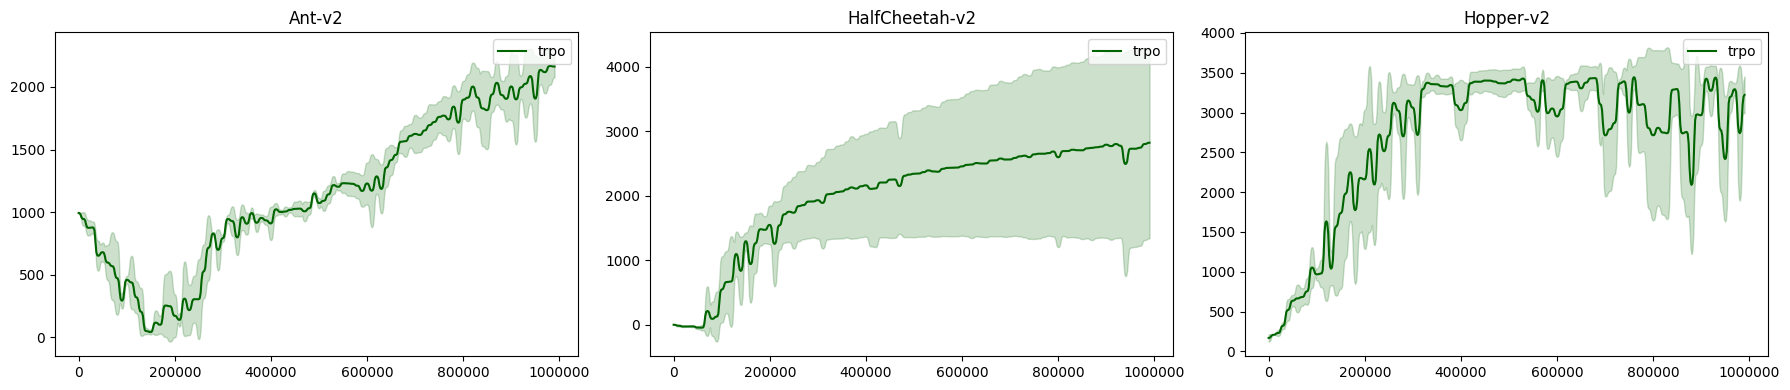
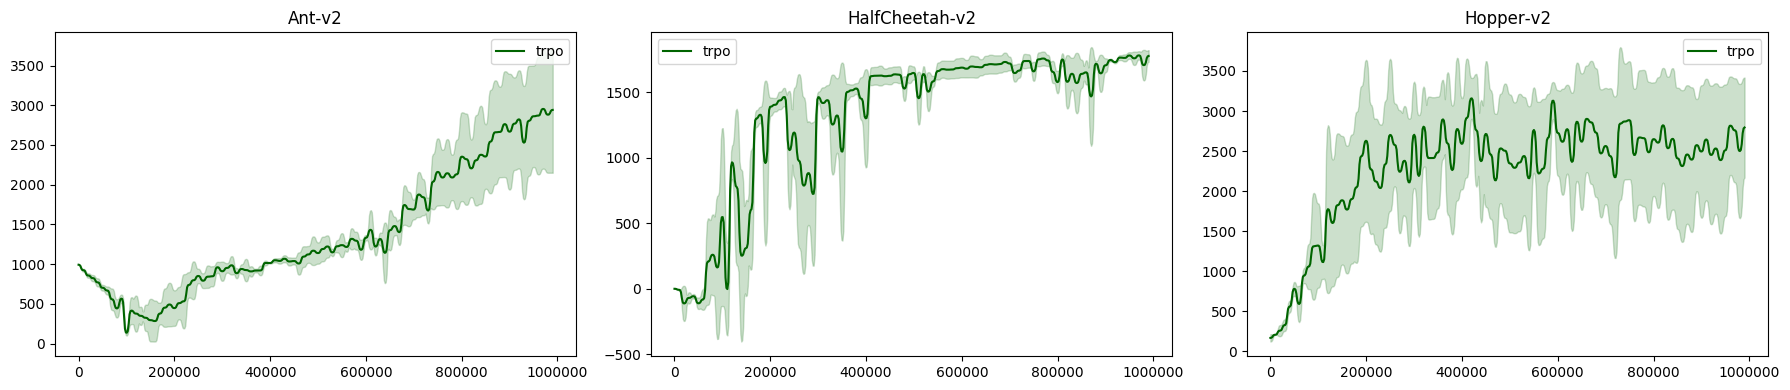
add peb for trpo and sac

diff --git a/utils/flags.py b/utils/flags.py
@@ -52,6 +52,7 @@ class FLAGS(BaseFLAGS):
         save_freq = int(1e6)
         eval_freq = int(1e4)
         normalization = True
+        peb = False
 
         class algo(BaseFLAGS):
             cg_damping = 0.1
@@ -81,6 +82,7 @@ class FLAGS(BaseFLAGS):
         eval_freq = int(1e4)
         save_freq = int(1e6)
         log_freq = int(2e3)
+        peb = True
 
         class algo(BaseFLAGS):
             gamma = 0.99
@@ -178,20 +180,23 @@ class FLAGS(BaseFLAGS):
         assert cls.TRPO.rollout_samples % cls.env.num_env == 0
 
         if os.path.exists('.git'):
-            for t in range(60):
+            for t in range(10):
                 try:
-                    if sys.platform == 'Linux':
+                    if sys.platform == 'linux':
                         cls.commit = check_output(['git', 'rev-parse', 'HEAD']).decode('utf-8').strip()
                         check_output(['git', 'add', '.'])
                         check_output(['git', 'checkout-index', '-a', '-f', '--prefix={}/src/'.format(cls.log_dir)])
+                        open(os.path.join(log_dir, 'diff.patch'), 'w').write(
+                            check_output(['git', '--no-pager', 'diff', 'HEAD']).decode('utf-8'))
                     else:
                         check_output(['git', 'checkout-index', '-a', '--prefix={}/src/'.format(cls.log_dir)])
                     break
-                except CalledProcessError:
-                    pass
+                except Exception as e:
+                    print(e)
+                    print('Try again...')
                 time.sleep(1)
             else:
-                raise RuntimeError('Failed after 60 trials.')
+                raise RuntimeError('Failed after 10 trials.')
 
         yaml.dump(cls.as_dict(), open(os.path.join(log_dir, 'config.yml'), 'w'), default_flow_style=False)
         # logger.add_sink(FileSink(os.path.join(log_dir, 'log.json')))

diff --git a/sac/main.py b/sac/main.py
@@ -32,7 +32,7 @@ def main():
     tf.get_default_session().run(tf.global_variables_initializer())
     sac.update_critic_target(tau=0.0)
 
-    dtype = gen_dtype(env, 'state action next_state reward done timeout')
+    dtype = gen_dtype(env, 'state action next_state reward done')
     buffer = Dataset(dtype=dtype, max_size=FLAGS.SAC.buffer_size)
     saver = nn.ModuleDict({'actor': actor, 'critic': critic})
     print(saver)
@@ -49,12 +49,16 @@ def main():
             actions = np.array([env.action_space.sample() for _ in range(env.n_envs)])
         else:
             actions = actor.get_actions(states)
-        next_states, rewards, dones, _ = env.step(actions)
+        next_states, rewards, dones, infos = env.step(actions)
         n_returns += rewards
         n_steps += 1
         timeouts = n_steps == env.max_episode_steps
+        terminals = np.copy(dones)
+        for e, info in enumerate(infos):
+            if FLAGS.SAC.peb and info.get('TimeLimit.truncated', False):
+                terminals[e] = False
 
-        transitions = [states, actions, next_states.copy(), rewards, dones, timeouts.copy()]
+        transitions = [states, actions, next_states.copy(), rewards, terminals]
         buffer.extend(np.rec.fromarrays(transitions, dtype=dtype))
 
         indices = np.where(dones | timeouts)[0]
@@ -66,13 +70,6 @@ def main():
             n_returns[indices] = 0
             n_steps[indices] = 0
         states = next_states.copy()
-
-        if t == 2000:
-            assert env.n_envs == 1
-            samples = buffer.sample(size=None, indices=np.arange(2000))
-            masks = 1 - (samples.done | samples.timeout)[..., np.newaxis]
-            masks = masks[:-1]
-            assert np.allclose(samples.state[1:] * masks, samples.next_state[:-1] * masks)
 
         if t >= FLAGS.SAC.init_random_steps:
             samples = buffer.sample(FLAGS.SAC.batch_size)

diff --git a/trpo/utils/runner.py b/trpo/utils/runner.py
@@ -77,15 +77,14 @@ class Runner(object):
         use_next_vf = ~samples.done
         use_next_adv = ~(samples.done | samples.timeout)
 
-        next_values = vfn.get_values(samples[-1].next_state)
+        next_values = vfn.get_values(samples.reshape(-1).next_state).reshape(n_steps, self.n_envs)
         values = vfn.get_values(samples.reshape(-1).state).reshape(n_steps, self.n_envs)
         advantages = np.zeros((n_steps, self.n_envs), dtype=np.float32)
         last_gae_lambda = 0
 
         for t in reversed(range(n_steps)):
-            delta = samples[t].reward + self.gamma * next_values * use_next_vf[t] - values[t]
+            delta = samples[t].reward + self.gamma * next_values[t] * use_next_vf[t] - values[t]
             advantages[t] = last_gae_lambda = delta + self.gamma * self.lambda_ * last_gae_lambda * use_next_adv[t]
-            next_values = values[t]
         return advantages.reshape(-1), values.reshape(-1)
 
 

diff --git a/trpo/main.py b/trpo/main.py
@@ -31,7 +31,8 @@ def main():
     tf.get_default_session().run(tf.global_variables_initializer())
 
     saver = nn.ModuleDict({'policy': policy, 'vfn': vfn, 'normalizers': normalizers})
-    runner = Runner(env, max_steps=env.max_episode_steps, gamma=FLAGS.TRPO.gamma, lambda_=FLAGS.TRPO.lambda_)
+    runner = Runner(env, max_steps=env.max_episode_steps, gamma=FLAGS.TRPO.gamma, lambda_=FLAGS.TRPO.lambda_,
+                    partial_episode_bootstrapping=FLAGS.TRPO.peb)
     print(saver)
 
     max_ent_coef = FLAGS.TRPO.algo.ent_coef

diff --git a/sac/algos/sac.py b/sac/algos/sac.py
@@ -103,7 +103,7 @@ class SAC(nn.Module):
     def train(self, data):
         _, critic_loss, q_value, critic_norm = self.optimize_critic(
             states=data.state, actions=data.action, next_states=data.next_state, rewards=data.reward,
-            terminals=data.done | data.timeout,
+            terminals=data.done,
             fetch='critic_train critic_loss q_value critic_norm'
         )
         assert np.isfinite(critic_loss), 'critic_loss is Nan'

diff --git a/images/README.md b/images/README.md
@@ -9,6 +9,8 @@
 
 <img src="sac_mujoco.png" width=75% ></img>
 
+Note that peb(partial episode boostrapping) = False.
+
 ## TD3
 
 <img src="td3_mujoco.png" width=75%></img>
@@ -18,6 +20,7 @@
 
 <img src="trpo_mujoco.png" width=75%></img>
 
+Note that peb(partial episode boostrapping) = False.
 
 ## GAIL
 
